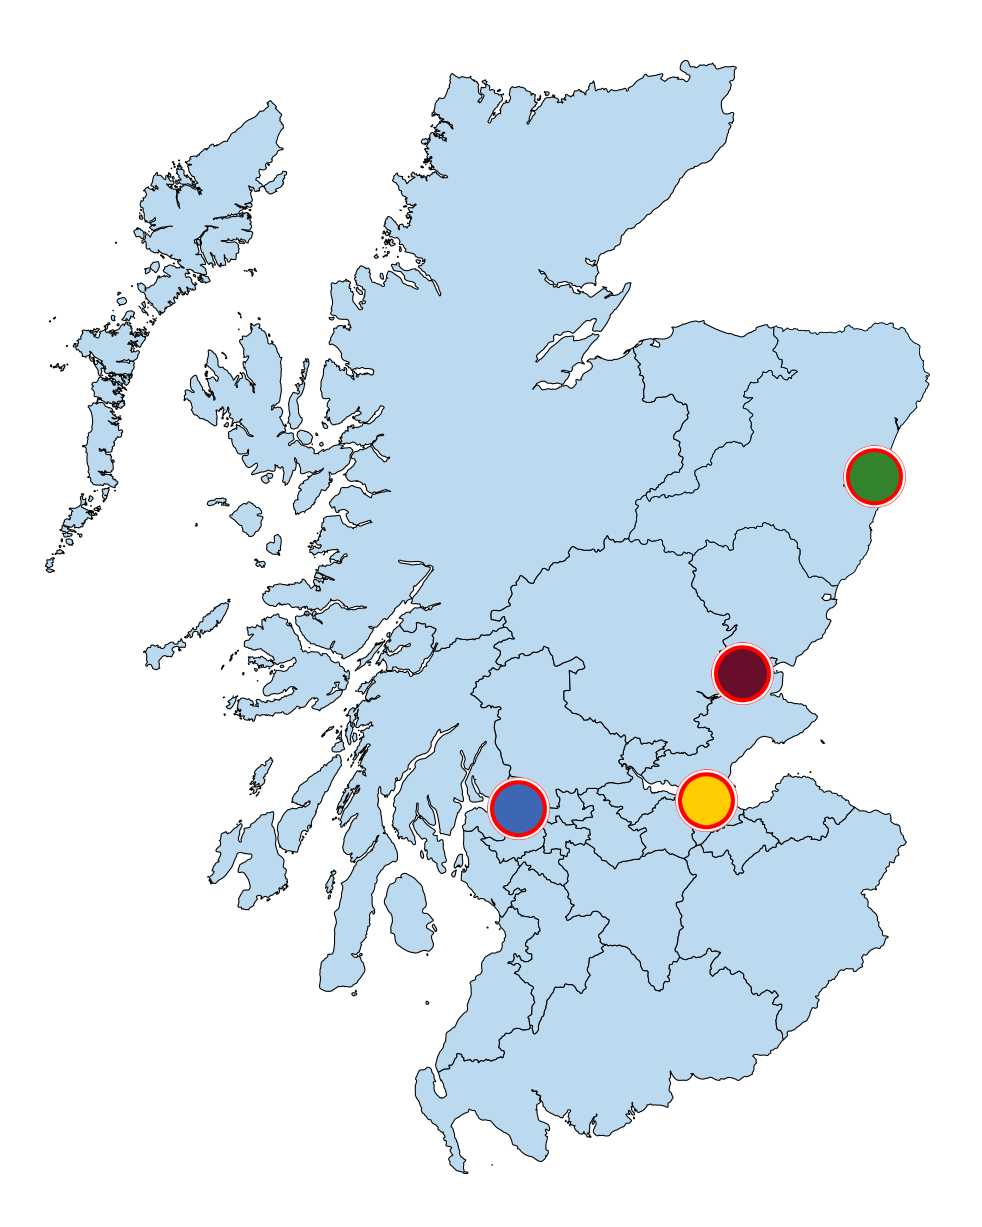
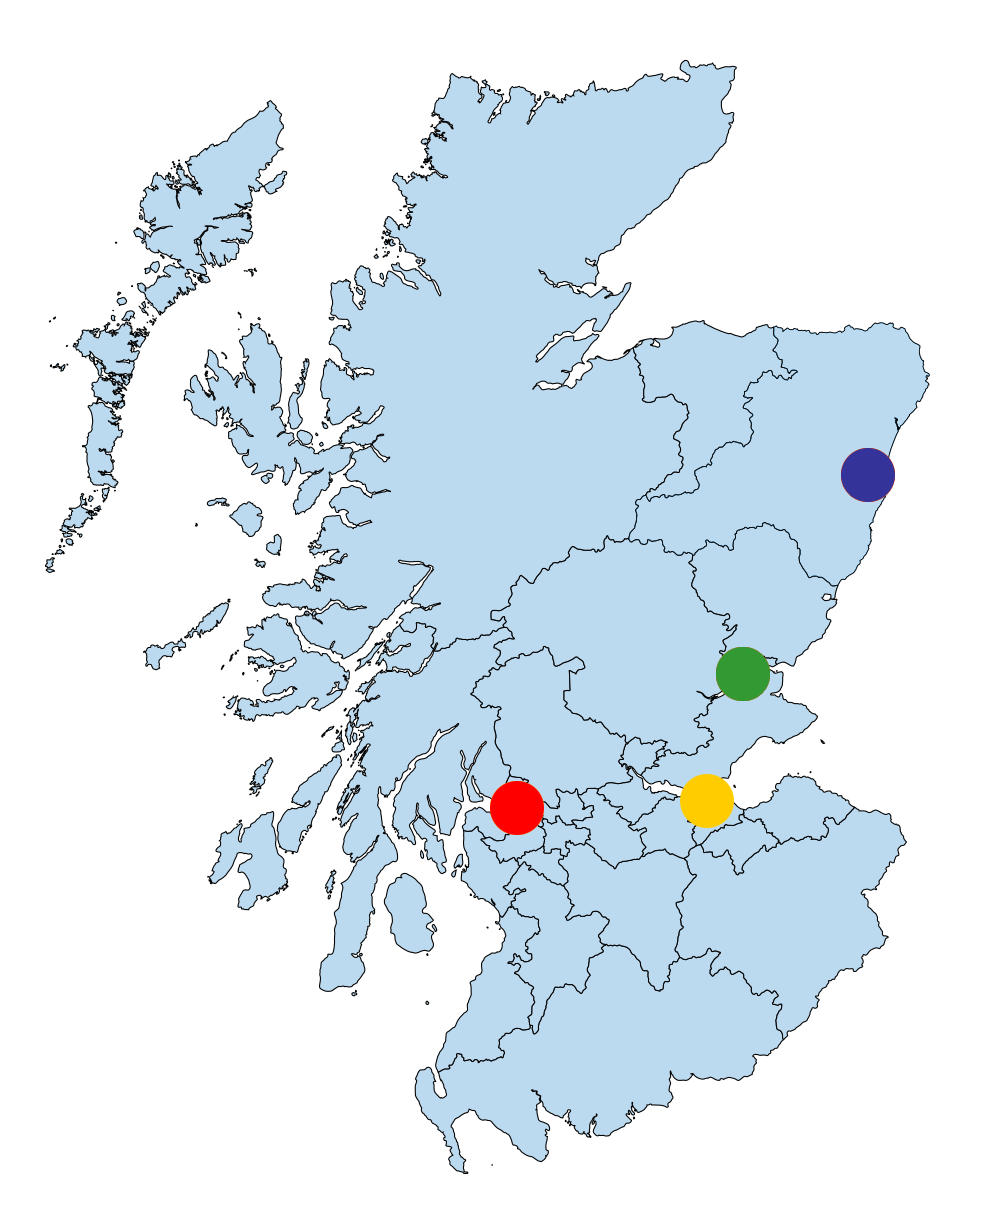
updated map colours

diff --git a/Shelter/css/styles.css b/Shelter/css/styles.css
@@ -133,7 +133,8 @@ body {
 .tooltip {
   border-radius: 5px;
   position: relative;
-  background: #fff;
+  background: #000;
+  color: #fff;
   border: 2px solid black;
   width: 200px;
   text-align: center;
@@ -184,7 +185,7 @@ body {
 
 .tooltip.aberdeen {
   top: -435px;
-  right: -335px;
+  right: -332px;
   padding: 5px;
   display: none;
 }
@@ -216,23 +217,19 @@ li:before {
 }
 
 li.glasgow:before {
-  background: #3e67b3;
-  border: 3px solid red;
+  background: #ff0000;
 }
 
 li.edinburgh:before {
-  background: #ffcd00;
-  border: 3px solid red;
+  background: #ffcc00;
 }
 
 li.dundee:before {
-  background: #680e2a;
-  border: 3px solid red;
+  background: #339933;
 }
 
 li.aberdeen:before {
-  background: #33832f;
-  border: 3px solid red;
+  background: #333399;
 }
 
 .back:before {
